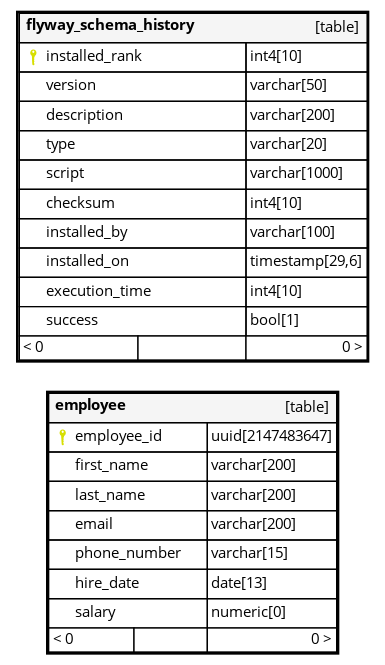
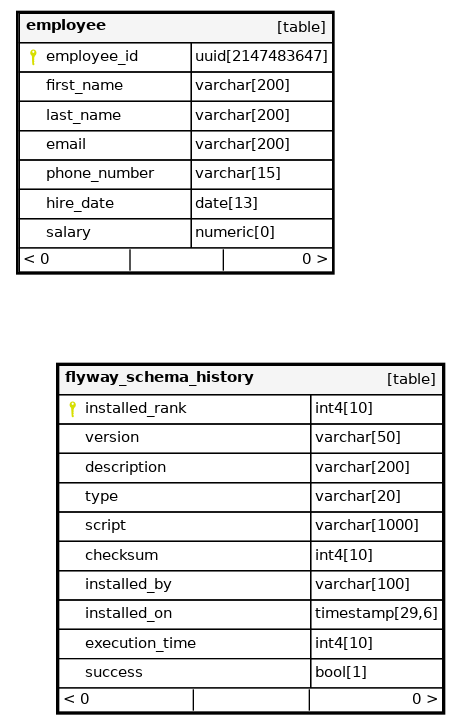
Deploying to gh-pages from @ bcgov/nr-arch-exploration@a1dbc02fa78ecab08068d31d7cb6e79419486b0e 🚀

Changed region(s): [[0.0312, 0.0, 0.9662, 0.9925]]

diff --git a/schemaspy/columns.html b/schemaspy/columns.html
@@ -114,68 +114,12 @@
         "tableName": "employee",
         "tableFileName": "employee",
         "tableType": "Table",
-        "keyClass": "",
-        "keyTitle": "",
-        "name": "email",
-        "type": "varchar",
-        "length": 200,
+        "keyClass": "primaryKey",
+        "keyTitle": "Primary Key",
+        "name": "<i class='icon ion-key iconkey' style='padding-left: 5px;'></i>employee_id",
+        "type": "uuid",
+        "length": 2147483647,
         "nullable": "",
-        "autoUpdated": "",
-        "defaultValue": "null",
-        "comments": ""
-    },
-    {
-        "tableName": "employee",
-        "tableFileName": "employee",
-        "tableType": "Table",
-        "keyClass": "",
-        "keyTitle": "",
-        "name": "phone_number",
-        "type": "varchar",
-        "length": 15,
-        "nullable": "",
-        "autoUpdated": "",
-        "defaultValue": "null",
-        "comments": ""
-    },
-    {
-        "tableName": "flyway_schema_history",
-        "tableFileName": "flyway_schema_history",
-        "tableType": "Table",
-        "keyClass": "",
-        "keyTitle": "",
-        "name": "execution_time",
-        "type": "int4",
-        "length": 10,
-        "nullable": "",
-        "autoUpdated": "",
-        "defaultValue": "null",
-        "comments": ""
-    },
-    {
-        "tableName": "flyway_schema_history",
-        "tableFileName": "flyway_schema_history",
-        "tableType": "Table",
-        "keyClass": "",
-        "keyTitle": "",
-        "name": "script",
-        "type": "varchar",
-        "length": 1000,
-        "nullable": "",
-        "autoUpdated": "",
-        "defaultValue": "null",
-        "comments": ""
-    },
-    {
-        "tableName": "flyway_schema_history",
-        "tableFileName": "flyway_schema_history",
-        "tableType": "Table",
-        "keyClass": "",
-        "keyTitle": "",
-        "name": "checksum",
-        "type": "int4",
-        "length": 10,
-        "nullable": "√",
         "autoUpdated": "",
         "defaultValue": "null",
         "comments": ""
@@ -209,15 +153,85 @@
         "comments": ""
     },
     {
+        "tableName": "employee",
+        "tableFileName": "employee",
+        "tableType": "Table",
+        "keyClass": "",
+        "keyTitle": "",
+        "name": "email",
+        "type": "varchar",
+        "length": 200,
+        "nullable": "",
+        "autoUpdated": "",
+        "defaultValue": "null",
+        "comments": ""
+    },
+    {
+        "tableName": "employee",
+        "tableFileName": "employee",
+        "tableType": "Table",
+        "keyClass": "",
+        "keyTitle": "",
+        "name": "phone_number",
+        "type": "varchar",
+        "length": 15,
+        "nullable": "",
+        "autoUpdated": "",
+        "defaultValue": "null",
+        "comments": ""
+    },
+    {
+        "tableName": "employee",
+        "tableFileName": "employee",
+        "tableType": "Table",
+        "keyClass": "",
+        "keyTitle": "",
+        "name": "hire_date",
+        "type": "date",
+        "length": 13,
+        "nullable": "",
+        "autoUpdated": "",
+        "defaultValue": "null",
+        "comments": ""
+    },
+    {
+        "tableName": "employee",
+        "tableFileName": "employee",
+        "tableType": "Table",
+        "keyClass": "",
+        "keyTitle": "",
+        "name": "salary",
+        "type": "numeric",
+        "length": 0,
+        "nullable": "√",
+        "autoUpdated": "",
+        "defaultValue": "null",
+        "comments": ""
+    },
+    {
         "tableName": "flyway_schema_history",
         "tableFileName": "flyway_schema_history",
         "tableType": "Table",
         "keyClass": "primaryKey",
         "keyTitle": "Primary Key",
-        "name": "<i class='icon ion-key iconkey' style='padding-left: 5px;'><\/i>installed_rank",
+        "name": "<i class='icon ion-key iconkey' style='padding-left: 5px;'></i>installed_rank",
         "type": "int4",
         "length": 10,
         "nullable": "",
+        "autoUpdated": "",
+        "defaultValue": "null",
+        "comments": ""
+    },
+    {
+        "tableName": "flyway_schema_history",
+        "tableFileName": "flyway_schema_history",
+        "tableType": "Table",
+        "keyClass": "",
+        "keyTitle": "",
+        "name": "version",
+        "type": "varchar",
+        "length": 50,
+        "nullable": "√",
         "autoUpdated": "",
         "defaultValue": "null",
         "comments": ""
@@ -254,11 +268,11 @@
         "tableName": "flyway_schema_history",
         "tableFileName": "flyway_schema_history",
         "tableType": "Table",
-        "keyClass": "indexedColumn",
-        "keyTitle": "Indexed",
-        "name": "<i class='fa fa-sitemap fa-rotate-120' style='padding-right: 5px;'><\/i>success",
-        "type": "bool",
-        "length": 1,
+        "keyClass": "",
+        "keyTitle": "",
+        "name": "script",
+        "type": "varchar",
+        "length": 1000,
         "nullable": "",
         "autoUpdated": "",
         "defaultValue": "null",
@@ -270,23 +284,9 @@
         "tableType": "Table",
         "keyClass": "",
         "keyTitle": "",
-        "name": "installed_on",
-        "type": "timestamp",
-        "length": 29,
-        "nullable": "",
-        "autoUpdated": "",
-        "defaultValue": "now()",
-        "comments": ""
-    },
-    {
-        "tableName": "employee",
-        "tableFileName": "employee",
-        "tableType": "Table",
-        "keyClass": "",
-        "keyTitle": "",
-        "name": "salary",
-        "type": "numeric",
-        "length": 0,
+        "name": "checksum",
+        "type": "int4",
+        "length": 10,
         "nullable": "√",
         "autoUpdated": "",
         "defaultValue": "null",
@@ -307,14 +307,28 @@
         "comments": ""
     },
     {
-        "tableName": "employee",
-        "tableFileName": "employee",
+        "tableName": "flyway_schema_history",
+        "tableFileName": "flyway_schema_history",
         "tableType": "Table",
-        "keyClass": "primaryKey",
-        "keyTitle": "Primary Key",
-        "name": "<i class='icon ion-key iconkey' style='padding-left: 5px;'><\/i>employee_id",
-        "type": "uuid",
-        "length": 2147483647,
+        "keyClass": "",
+        "keyTitle": "",
+        "name": "installed_on",
+        "type": "timestamp",
+        "length": 29,
+        "nullable": "",
+        "autoUpdated": "",
+        "defaultValue": "now()",
+        "comments": ""
+    },
+    {
+        "tableName": "flyway_schema_history",
+        "tableFileName": "flyway_schema_history",
+        "tableType": "Table",
+        "keyClass": "",
+        "keyTitle": "",
+        "name": "execution_time",
+        "type": "int4",
+        "length": 10,
         "nullable": "",
         "autoUpdated": "",
         "defaultValue": "null",
@@ -324,25 +338,11 @@
         "tableName": "flyway_schema_history",
         "tableFileName": "flyway_schema_history",
         "tableType": "Table",
-        "keyClass": "",
-        "keyTitle": "",
-        "name": "version",
-        "type": "varchar",
-        "length": 50,
-        "nullable": "√",
-        "autoUpdated": "",
-        "defaultValue": "null",
-        "comments": ""
-    },
-    {
-        "tableName": "employee",
-        "tableFileName": "employee",
-        "tableType": "Table",
-        "keyClass": "",
-        "keyTitle": "",
-        "name": "hire_date",
-        "type": "date",
-        "length": 13,
+        "keyClass": "indexedColumn",
+        "keyTitle": "Indexed",
+        "name": "<i class='fa fa-sitemap fa-rotate-120' style='padding-right: 5px;'></i>success",
+        "type": "bool",
+        "length": 1,
         "nullable": "",
         "autoUpdated": "",
         "defaultValue": "null",

diff --git a/schemaspy/orphans.html b/schemaspy/orphans.html
@@ -83,15 +83,11 @@
                             <h3 class="box-title">Orphan Tables</h3>
                         </div>
                         <div class="box-body">
-                            <div id="grid" data-columns>
-                                <div class="item">
 <img id="orphans" src="diagrams/orphans/orphans.png" usemap="#orphans" style="max-width:100%;" border="0" align="top">
 <map id="orphans" name="orphans">
-<area shape="rect" id="node1" href="tables/employee.html" target="_top" title="employee" alt="" coords="35,385,350,660">
-<area shape="rect" id="node2" href="tables/flyway_schema_history.html" target="_top" title="flyway_schema_history" alt="" coords="5,5,380,368">
+<area shape="rect" id="node1" href="tables/employee.html" target="_top" title="employee" alt="" coords="5,5,345,280">
+<area shape="rect" id="node2" href="tables/flyway_schema_history.html" target="_top" title="flyway_schema_history" alt="" coords="45,357,456,720">
 </map>
-                                </div>
-                            </div>
                         </div>
                     </div>
                 </section>

diff --git a/schemaspy/index.html b/schemaspy/index.html
@@ -78,7 +78,7 @@
                         <div class="col-md-12">
                             <div class="callout callout-info">
                                 <h4>SchemaSpy Analysis of default.public</h4>
-                                <p>Generated on Tue Aug 15 21:14 GMT 2023</p>
+                                <p>Generated on Mon Jan 08 22:48 UTC 2024</p>
                             </div>
                         </div>
                     </div>
@@ -168,7 +168,7 @@
                             <span class="label label-primary pull-right"><i class="fa fa-cog fa-2x"></i></span>
                         </div><!-- /.box-header -->
                         <div class="box-body">
-                            <p>Database Type: PostgreSQL - 15.4 (Debian 15.4-1.pgdg120+1)</p>
+                            <p>Database Type: PostgreSQL - 16.1 (Debian 16.1-1.pgdg120+1)</p>
                         </div><!-- /.box-body -->
                     </div>
                     <div class="box box-primary">

diff --git a/schemaspy/tables/flyway_schema_history.html b/schemaspy/tables/flyway_schema_history.html
@@ -342,7 +342,7 @@
                                 <div class="tab-content no-padding">
                                     <div class="chart tab-pane active" id="oneDegreeImg-chart" style="position: relative; overflow-x:auto;">
                                         <map id="oneDegreeRelationshipsDiagram" name="oneDegreeRelationshipsDiagram">
-<area shape="rect" id="node1" href="flyway_schema_history.html" target="_top" title="flyway_schema_history" alt="" coords="5,5,380,368">
+<area shape="rect" id="node1" href="flyway_schema_history.html" target="_top" title="flyway_schema_history" alt="" coords="5,5,416,368">
 </map>
                                         <a name='diagram'><img id="oneDegreeImg" src="../diagrams/tables/flyway_schema_history.1degree.png" usemap="#oneDegreeRelationshipsDiagram" class="diagram" border="0" align="left"></a>
                                     </div>

diff --git a/schemaspy/tables/employee.html b/schemaspy/tables/employee.html
@@ -285,7 +285,7 @@
                                 <div class="tab-content no-padding">
                                     <div class="chart tab-pane active" id="oneDegreeImg-chart" style="position: relative; overflow-x:auto;">
                                         <map id="oneDegreeRelationshipsDiagram" name="oneDegreeRelationshipsDiagram">
-<area shape="rect" id="node1" href="employee.html" target="_top" title="employee" alt="" coords="5,5,320,280">
+<area shape="rect" id="node1" href="employee.html" target="_top" title="employee" alt="" coords="5,5,345,280">
 </map>
                                         <a name='diagram'><img id="oneDegreeImg" src="../diagrams/tables/employee.1degree.png" usemap="#oneDegreeRelationshipsDiagram" class="diagram" border="0" align="left"></a>
                                     </div>
